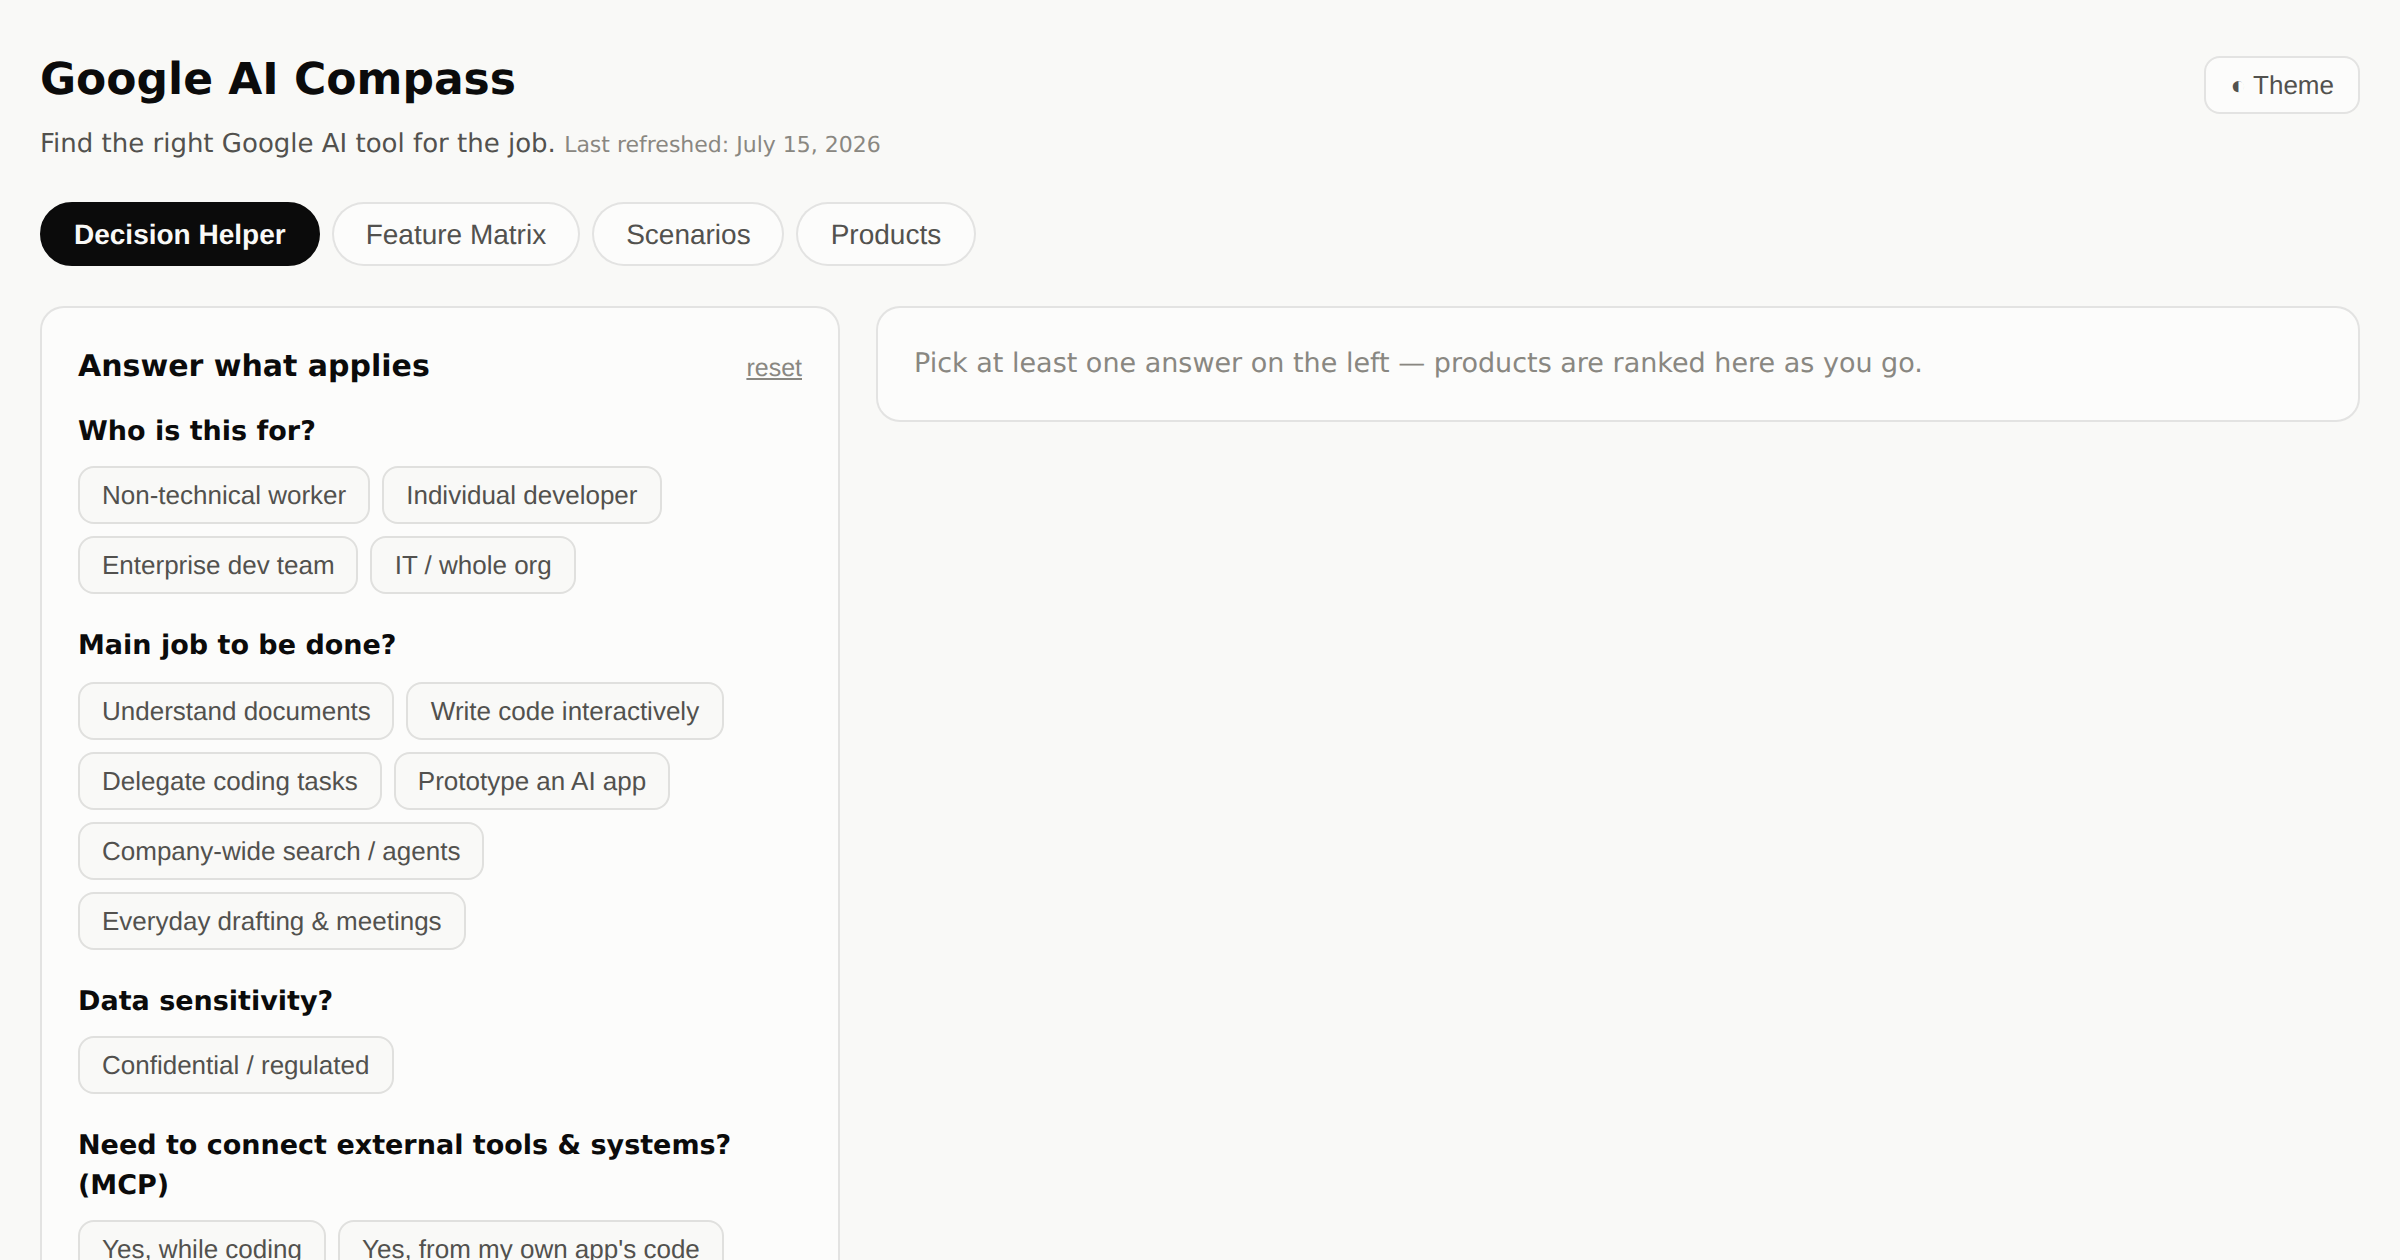
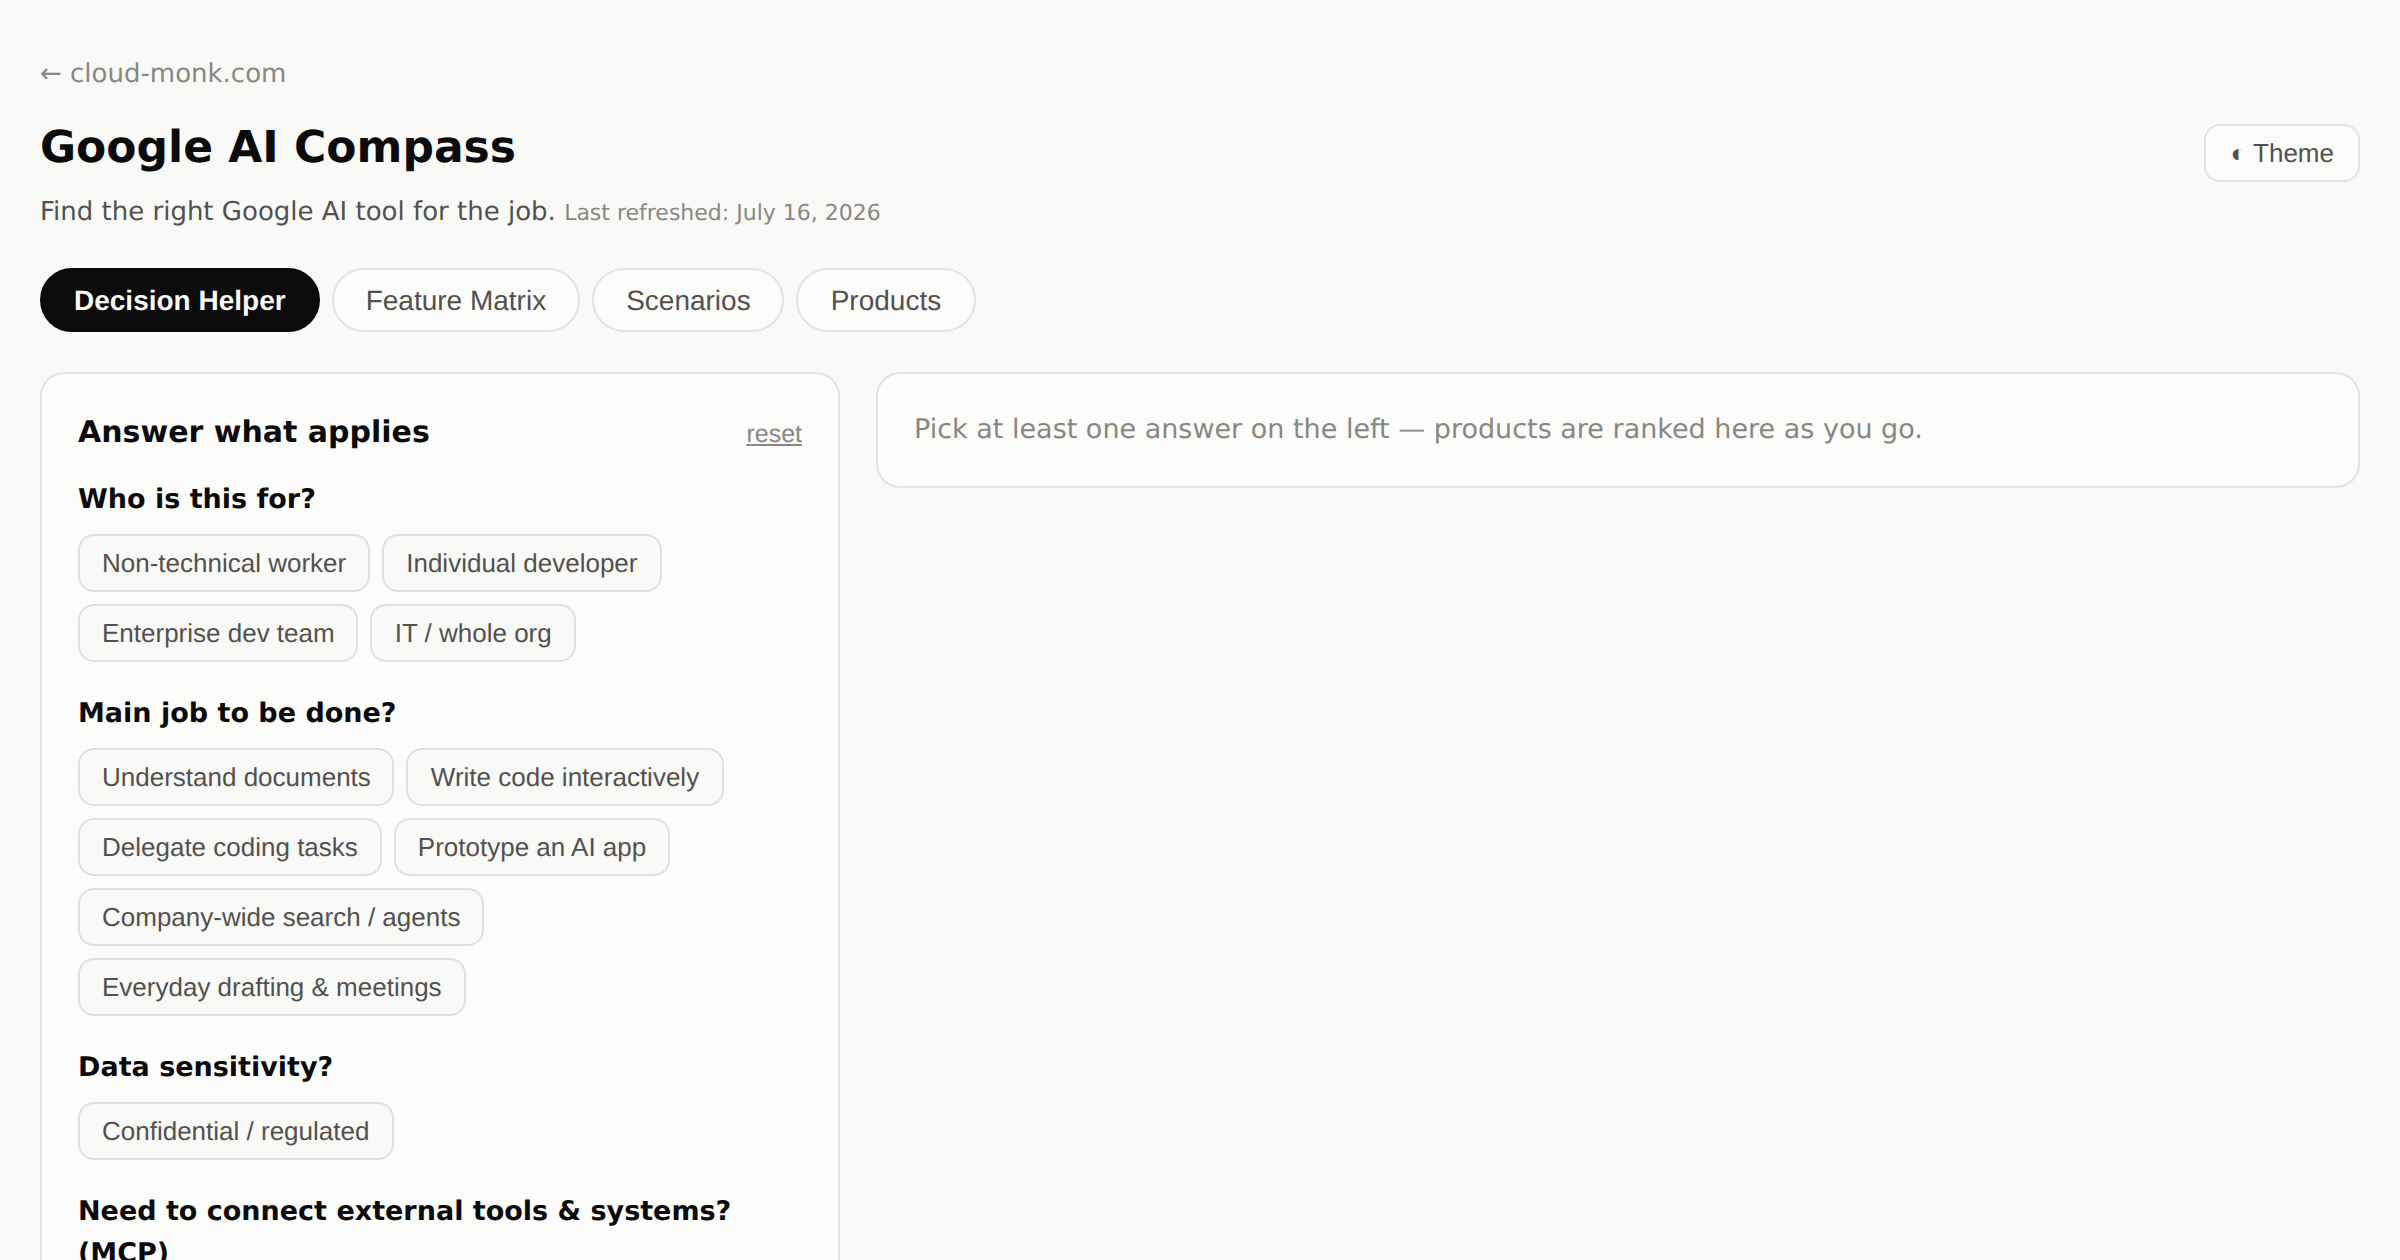
Rename NotebookLM to Gemini Notebook, add Code Execution and cross-app syncing

diff --git a/tools/google-ai-compass/index.html b/tools/google-ai-compass/index.html
@@ -22,7 +22,7 @@
     --grid: #e1e0d9; --baseline: #c3c2b7;
     --border: rgba(11,11,11,0.10);
     --good: #0ca30c; --warning: #fab219;
-    --p-notebooklm: #2a78d6; --p-aistudio: #008300; --p-agmanager: #e87ba4;
+    --p-gnotebook: #2a78d6; --p-aistudio: #008300; --p-agmanager: #e87ba4;
     --p-agcli: #eda100; --p-agide: #1baf7a; --p-genterprise: #eb6834; --p-gworkspace: #4a3aa7;
   }
   @media (prefers-color-scheme: dark) {
@@ -32,7 +32,7 @@
       --ink-1: #ffffff; --ink-2: #c3c2b7; --ink-3: #898781;
       --grid: #2c2c2a; --baseline: #383835;
       --border: rgba(255,255,255,0.10);
-      --p-notebooklm: #3987e5; --p-aistudio: #008300; --p-agmanager: #d55181;
+      --p-gnotebook: #3987e5; --p-aistudio: #008300; --p-agmanager: #d55181;
       --p-agcli: #c98500; --p-agide: #199e70; --p-genterprise: #d95926; --p-gworkspace: #9085e9;
     }
   }
@@ -42,7 +42,7 @@
     --ink-1: #ffffff; --ink-2: #c3c2b7; --ink-3: #898781;
     --grid: #2c2c2a; --baseline: #383835;
     --border: rgba(255,255,255,0.10);
-    --p-notebooklm: #3987e5; --p-aistudio: #008300; --p-agmanager: #d55181;
+    --p-gnotebook: #3987e5; --p-aistudio: #008300; --p-agmanager: #d55181;
     --p-agcli: #c98500; --p-agide: #199e70; --p-genterprise: #d95926; --p-gworkspace: #9085e9;
   }
   * { box-sizing: border-box; margin: 0; }
@@ -170,7 +170,7 @@
     <h1>Google AI Compass</h1>
     <button id="themeBtn">◐ Theme</button>
   </header>
-  <p class="sub">Find the right Google AI tool for the job. <em style="font-size:11px;">Last refreshed: July 15, 2026</em></p>
+  <p class="sub">Find the right Google AI tool for the job. <em style="font-size:11px;">Last refreshed: July 16, 2026</em></p>
 
   <nav id="tabs">
     <button data-view="helper" class="active">Decision Helper</button>
@@ -217,16 +217,18 @@
 
 <script>
 const PRODUCTS = [
-  { id:"notebooklm", name:"NotebookLM", varName:"--p-notebooklm", tag:"Research assistant",
-    one:"Source-grounded research: answers only from the sources you upload, with citations.",
+  { id:"notebooklm", name:"Gemini Notebook", varName:"--p-gnotebook", tag:"Research assistant (formerly NotebookLM)",
+    one:"Source-grounded research: answers only from the sources you upload, with citations. Renamed from NotebookLM in July 2026.",
     feats:[
       ["Grounded Q&A","Answers strictly from your uploaded sources, with citations; refuses if the answer isn't there."],
-      ["Studio outputs","Audio & Video Overviews (podcasts), reports, quizzes, flashcards, mind maps, slide decks."],
-      ["Deep Research","Finds and adds web sources itself (tiered quotas)."]],
+      ["Studio outputs","Audio & Video Overviews (incl. Cinematic), reports, quizzes, flashcards, mind maps, slide decks (PPTX export), infographics."],
+      ["Code Execution","Each notebook runs in a secure container — generate code for interactive data analysis directly in the tool."],
+      ["Deep Research","Finds and adds web sources itself (tiered quotas)."],
+      ["Cross-app syncing","Notebooks accessible inside the Gemini app and soon in AI Mode in Search."]],
     price:"Free tier → Google AI Plus/Pro/Ultra for higher limits; Enterprise via GCP",
     privacy:"Not used to train models (consumer & enterprise)",
     users:"Researchers, students, analysts, knowledge workers",
-    caveat:"500K-word / 200MB per-source cap applies on every plan." },
+    caveat:"500K-word / 200MB per-source cap applies on every plan. Powered by Gemini 3.5 + Antigravity." },
   { id:"aistudio", name:"AI Studio", varName:"--p-aistudio", tag:"Developer playground",
     one:"Free browser playground + API-key hub for the Gemini API, with prompt-to-app Build mode.",
     feats:[
@@ -292,7 +294,7 @@ const PRODUCTS = [
 /* ---- capability matrix: 0 no, 1 partial, 2 yes, 3 core ---- */
 /* Matrix columns: the three Antigravity surfaces are merged into one column for readability; per-surface differences are stated in the cell notes. */
 const MATRIX_COLS = [
-  { id:"notebooklm", name:"NotebookLM", varName:"--p-notebooklm" },
+  { id:"notebooklm", name:"Gemini Notebook", varName:"--p-gnotebook" },
   { id:"aistudio", name:"AI Studio", varName:"--p-aistudio" },
   { id:"antigravity", name:"Antigravity (Manager · IDE · CLI)", varName:"--p-agmanager" },
   { id:"genterprise", name:"Gemini Enterprise app (GCP)", varName:"--p-genterprise" },
@@ -304,7 +306,7 @@ const CAPS = [
   ["Deep Research (agentic web research)",
     {notebooklm:[2,"Tiered quotas (10/mo free → 200/day Ultra)"], aistudio:[0,""], antigravity:[0,""], genterprise:[2,"Included in the end-user app"], gworkspace:[2,"In the Gemini app; can also search your Workspace data"]}],
   ["Writes / edits code",
-    {notebooklm:[1,"Executes code internally for analysis (June 2026), not a coding tool"], aistudio:[2,"Build mode generates full apps"], antigravity:[3,"Core purpose — delegate tasks (Agent Manager), code interactively (IDE), or work in the terminal (CLI)"], genterprise:[0,"Not in the app — pro-code lives in the separate Agent Platform"], gworkspace:[1,"Canvas light prototyping"]}],
+    {notebooklm:[1,"Code Execution in secure containers for data analysis (July 2026), not a coding tool"], aistudio:[2,"Build mode generates full apps"], antigravity:[3,"Core purpose — delegate tasks (Agent Manager), code interactively (IDE), or work in the terminal (CLI)"], genterprise:[0,"Not in the app — pro-code lives in the separate Agent Platform"], gworkspace:[1,"Canvas light prototyping"]}],
   ["Multiple parallel / async agents",
     {notebooklm:[0,""], aistudio:[0,""], antigravity:[3,"Agent Manager is mission control (groups, subagents, schedules); IDE and CLI run background subagents"], genterprise:[1,"Scheduled/trigger-based no-code agents"], gworkspace:[0,""]}],
   ["Build custom AI agents",
@@ -314,7 +316,7 @@ const CAPS = [
   ["Gemini API access / keys",
     {notebooklm:[0,""], aistudio:[3,"Self-serve keys, playground, code export"], antigravity:[0,"Consumes models; no API-key auth on any tier"], genterprise:[0,"Not in the app — API/SDK access is the separate Agent Platform (Vertex AI lineage)"], gworkspace:[0,""]}],
   ["Audio / Video Overviews (podcasts)",
-    {notebooklm:[3,"Signature feature; Cinematic on paid tiers"], aistudio:[0,""], antigravity:[0,""], genterprise:[2,"Via NotebookLM Enterprise"], gworkspace:[2,"Via bundled enhanced NotebookLM"]}],
+    {notebooklm:[3,"Signature feature; Cinematic Video Overviews on paid tiers"], aistudio:[0,""], antigravity:[0,""], genterprise:[2,"Via Gemini Notebook Enterprise"], gworkspace:[2,"Via bundled enhanced Gemini Notebook"]}],
   ["Media generation (image / video / music)",
     {notebooklm:[1,"Images inside generated outputs"], aistudio:[2,"Veo 3.1, Lyria 3, Nano Banana — paid API tier"], antigravity:[0,""], genterprise:[2,"Image + video generation in the app"], gworkspace:[2,"Slides/Vids image generation"]}],
   ["Data NOT used for training",
@@ -361,7 +363,7 @@ const QUESTIONS = [
     ["Whatever I wire up myself",{aistudio:3,agmanager:2,agcli:2,agide:2,genterprise:1}]]},
 ];
 const WHY = {
-  notebooklm:"Strictly source-grounded answers with citations, plus podcast/video/quiz outputs no other product has.",
+  notebooklm:"Strictly source-grounded answers with citations, plus podcast/video/quiz outputs no other product has. Formerly NotebookLM.",
   aistudio:"Fastest zero-setup way to try Gemini and prototype — for confidential work, link billing for enterprise data-protection (DPA) terms.",
   agmanager:"Built to supervise multiple async coding agents with reviewable plans, walkthroughs, and browser-verified testing.",
   agcli:"The terminal/SSH surface of Antigravity — the official Gemini CLI successor with background subagents and skills.",
@@ -375,9 +377,9 @@ const SCENARIOS = [
   ["\u201CSummarize these 40 PDFs and make a briefing podcast\u201D","notebooklm","Upload the PDFs as sources, ask grounded questions, generate an Audio Overview. No other product does source-cited synthesis + podcast output."],
   ["\u201CHackathon demo of an AI feature by Friday\u201D","aistudio","Build mode: prompt-to-app with a full-stack runtime, deploy to Cloud Run. Free, zero setup."],
   ["\u201CFix this bug while I keep building the feature\u201D","agmanager","Spawn an agent on the bug in a worktree via the Agent Manager while you stay in the IDE; review its Walkthrough artifact when done."],
-  ["\u201CEmployees keep pasting contracts into a public chatbot\u201D","gworkspace","Roll out the bundled, governed Gemini app + NotebookLM; step up to Gemini Enterprise if they also need M365/Salesforce search."],
+  ["\u201CEmployees keep pasting contracts into a public chatbot\u201D","gworkspace","Roll out the bundled, governed Gemini app + Gemini Notebook; step up to Gemini Enterprise if they also need M365/Salesforce search."],
   ["\u201CHR agent answering onboarding questions from SharePoint\u201D","genterprise","SharePoint connector + no-code Agent Designer; permission-aware answers with IT governance."],
-  ["\u201CCompetitive analysis report by tomorrow\u201D","gworkspace","Gemini app Deep Research for the cited report; move findings into NotebookLM if it becomes an ongoing research base."],
+  ["\u201CCompetitive analysis report by tomorrow\u201D","gworkspace","Gemini app Deep Research for the cited report; move findings into Gemini Notebook if it becomes an ongoing research base."],
   ["\u201CWire my coding agent to Jira, Postgres, and internal APIs via MCP\u201D","agide","Antigravity: add servers once in ~/.gemini/config/mcp_config.json (or the IDE's MCP Store) and all three surfaces — IDE, Agent Manager, CLI — see them. Local stdio and remote HTTP both work. Caveat: OAuth re-auth per surface (practitioner-reported)."],
 ];
 
@@ -391,8 +393,8 @@ const chip = (p,small) => `<span class="chip"${small?' style="font-size:12px"':'
 const TIER_INFO = {
   notebooklm: {
     free:{ok:true, cond:"Fully usable free with a personal Google account: 100 notebooks, 50 sources each, 50 chats/day, 3 Audio/Video Overviews/day, Deep Research 10/month. 500K-word/200MB per-source cap. Data not used for training."},
-    gcp:{ok:true, cond:"NotebookLM Enterprise / via Gemini Enterprise plans (admin-assigned): \u201C5X or more\u201D artifact limits, Advanced Sharing, VPC-SC + IAM; data stays in your GCP project with data-region compliance.",
-      caveat:"The 500K-word / 200MB per-source cap is a NotebookLM product limit, not a GCP quota — it applies on all tiers, and no official page says Enterprise raises it (Enterprise's \u201C5X\u201D applies to artifact limits)."}},
+    gcp:{ok:true, cond:"Gemini Notebook Enterprise / via Gemini Enterprise plans (admin-assigned): \u201C5X or more\u201D artifact limits, Advanced Sharing, VPC-SC + IAM; data stays in your GCP project with data-region compliance.",
+      caveat:"The 500K-word / 200MB per-source cap is a Gemini Notebook product limit, not a GCP quota — it applies on all tiers, and no official page says Enterprise raises it (Enterprise's \u201C5X\u201D applies to artifact limits)."}},
   aistudio: {
     free:{ok:true, cond:"Studio itself is free; free API key needs no billing. Note: prompts/outputs may be used to improve products, incl. human review (EEA/CH/UK excepted) — best for non-sensitive work. No Veo/Lyria/image-gen/Batch/caching/Computer Use; free-tier rate caps."},
     gcp:{ok:true, cond:"Two steps up: (1) link a Cloud Billing account to the key's project — data terms flip to no-training/DPA, unlocks media gen + Batch + caching, spend-tier limits; (2) full Vertex / Agent Platform — IAM/service accounts (no API keys), regions, VPC-SC/CMEK, Provisioned Throughput.",
